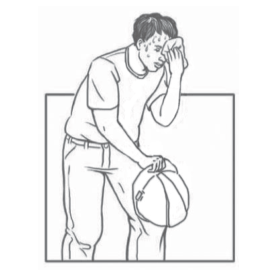
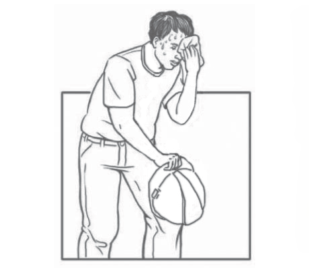
aspect ratio update

Changed region(s): [[0.1444, 0.0295, 0.8664, 0.9742]]

diff --git a/index.html b/index.html
@@ -71,8 +71,8 @@
     <div>
       <p class="mb-2 text-[10px] font-bold uppercase tracking-[.2em] text-ink/60">EARLY SYMPTOMS</p>
       <h4 class="font-display text-2xl font-semibold leading-tight tracking-[-.030em]">ACT EARLY!</h4>
-    </div>
-    <span class="grid h-10 w-10 place-items-center rounded-full bg-sun text-xl">↗</span>
+    /div>
+    <span class="grid h-10 w-10 place-items-center rounded-full border border-ink/50 text-xl">!</span>
   </div>
 
   <figure class="image-block image-block--card symptom-image" role="img" aria-label="Early symptoms image">
